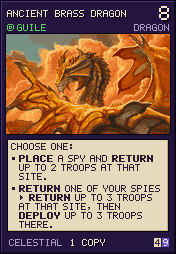
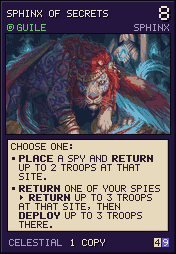
Stage NE-38: fewer dragons in Celestial — Ancient Brass Dragon -> Sphinx of Secrets, Adult Brass Dragon -> Archon of Boundaries, Silver Dragon -> Empyrean Iota (6+ cost cards get unique creatures), Young White Dragon -> Warrior Commander, Brass Dragon Wyrmling -> Curate; unused dragon arts removed, 

diff --git a/hs_unity/CARD_MAP.md b/hs_unity/CARD_MAP.md
@@ -139,7 +139,7 @@ S'theno, Neptulon TID, Neeru, Al'Akir NEW1 заменены свежими).
 | Warrior Veteran (49017) | Commander Beatrix (JAIL_397) | `JAIL_397_HighCommanderBeatrix_CustomSummon.prefab` | СДЕЛАНО (HsFx-79; владелец выбрал в HsBrowser 2026-10-27) |
 | Berserker (49607) | Korrak the Bloodrager (AV_143) | `AVFX_Korrak_CustomSummon.prefab` | берсерк |
 | Scout (49019) | Tyrande (EDR_464) | `EDRFX_Tyrande_CustomSummon.prefab` | СДЕЛАНО (HsFx-79; владелец выбрал в HsBrowser 2026-10-27) |
-| Silver Dragon (49020) | Azure Queen Sindragosa (TIME_852) | `TIMEFX_AzureQueenSindragosa_CustomSummon.prefab` | СДЕЛАНО (HsFx-77; владелец выбрал в HsBrowser 2026-10-27) |
+| ~~Silver Dragon~~ (—, существо убрано из игры NE-38; на 49020 теперь другое существо) | Azure Queen Sindragosa (TIME_852) | `TIMEFX_AzureQueenSindragosa_CustomSummon.prefab` | анимация свободна |
 | Shield Guardian (49218) | Omen (EDR_421) | `EDRFX_Omen_CustomSummon.prefab` | СДЕЛАНО (HsFx-77; владелец выбрал в HsBrowser 2026-10-27) |
 | Gold Dragon (49022) | Ursol (EDR_259) | `EDRFX_Ursol_CustomSummon.prefab` | СДЕЛАНО (HsFx-79; владелец выбрал в HsBrowser 2026-10-27) |
 
@@ -224,17 +224,17 @@ S'theno, Neptulon TID, Neeru, Al'Akir NEW1 заменены свежими).
 | Frost Giant (49620) | The Lich King (CORE_ICC_314) | `LichKing_CustomSummon.prefab` | СДЕЛАНО (HsFx-78; владелец выбрал в HsBrowser 2026-10-27) |
 | Pirate Captain (49714) | Eliza Goreblade (VAC_426) | `VAC_ElizaGoreBlade_CustomSummon.prefab` | СДЕЛАНО (HsFx-77; владелец выбрал в HsBrowser 2026-10-27) |
 | Blink Dog (49635) | Zer'Ontu (BE_790) | `BE_790_ZerOntu_CustomSummon.prefab` | СДЕЛАНО (HsFx-77; владелец выбрал в HsBrowser 2026-10-27) |
-| Young White Dragon (49014) | Bonelord Frostwhisper (RLK_591) | `RLKFX_BonelordFrostwhisper_CustomSummon.prefab` | СДЕЛАНО (HsFx-77; владелец выбрал в HsBrowser 2026-10-27) |
+| ~~Young White Dragon~~ (—, существо убрано из игры NE-38; на 49014 теперь другое существо) | Bonelord Frostwhisper (RLK_591) | `RLKFX_BonelordFrostwhisper_CustomSummon.prefab` | анимация свободна |
 
 ### shurima
 
 | Карта (id) | Легендарка HS (id) | Префаб эффекта | Почему |
 |---|---|---|---|
 | Roper (49711) | Iso'rath (CATA_481) | `CATAFX_Iso'rath_CustomSummon.prefab` | СДЕЛАНО (HsFx-76; владелец выбрал в HsBrowser 2026-10-27; готовый эффект другой карты перепечён с контуром этой) |
-| Ancient Brass Dragon (49016) | Mister Clocksworth (TIME_038t3) | `TIMEFX_MisterClocksWorth_CustomSummon.prefab` | СДЕЛАНО (HsFx-77; владелец выбрал в HsBrowser 2026-10-27) |
+| ~~Ancient Brass Dragon~~ (—, существо убрано из игры NE-38; на 49016 теперь другое существо) | Mister Clocksworth (TIME_038t3) | `TIMEFX_MisterClocksWorth_CustomSummon.prefab` | анимация свободна |
 | Purple Worm (49713) | Arisen Onyxia (CATA_155) | `CATA_155_ArisenOnyxia_Fab_CustomSummon_FX.prefab` | СДЕЛАНО (HsFx-79; владелец выбрал в HsBrowser 2026-10-27) |
 | Guardian Naga (50101) | Razidir (TLC_463) | `TLC463_Nazidir_CustomSummon.prefab` | СДЕЛАНО (HsFx-76; владелец выбрал в HsBrowser 2026-10-27; готовый эффект другой карты перепечён с контуром этой) |
-| Adult Brass Dragon (49021) | Anachronos (CORE_RLK_919) | `RLKFX_Anachronos_CustomSummon.prefab` | СДЕЛАНО (HsFx-77; владелец выбрал в HsBrowser 2026-10-27) |
+| ~~Adult Brass Dragon~~ (—, существо убрано из игры NE-38; на 49021 теперь другое существо) | Anachronos (CORE_RLK_919) | `RLKFX_Anachronos_CustomSummon.prefab` | анимация свободна |
 | Stone Giant (49606) | Toy Captain Tarim (TOY_813t) | `TOYFX_ToyCaptainTarim_CustomSummon.prefab` | СДЕЛАНО (HsFx-77; владелец выбрал в HsBrowser 2026-10-27) |
 | Gorgon (49717) | Gorgonzormu (VAC_955) | `VACFX_Gorgonzormu_CustomSummon.prefab` | горгона (по имени; при желании — заменить) |
 | Ankheg (49718) | Gorm the Worldeater (GDB_842) | `GDBFX_GormtheWorldeater_CustomSummon.prefab` | СДЕЛАНО (HsFx-77; владелец выбрал в HsBrowser 2026-10-27) |

diff --git a/Claude outputs/new_era_handoff.md b/Claude outputs/new_era_handoff.md
@@ -8,6 +8,7 @@
 - **Поле расы:** у карт New Era новое поле `"race"` в cards.json (`tools/new_era/races.tsv`), на карте справа от аспекта рисуется раса, а не полуколода; `"type"` остался полуколодой (им пользуются Knight of Eldraine «Name a region», тесты, god panel). `CardLibrary.card_race()`; High Priest of Myrkul («promote Undead») теперь смотрит на расу — нежить New Era тоже повышается.
 - Имена в вопросах реакций (Shield Guard / Oni / Ankheg) берутся из cards.json.
 - **NE-37 (владелец: оборотни, Basilisk, Rakshasa в Ravenloft «не по вайбу»):** заменены на нежить, исчадие и аберрацию из D&D Beyond: 49113 Strahd von Zarovich, 49115 Relentless Slasher (FIEND), 49116 Nightmare Haunt (ABERRATION), 49118 Zombie Plague Spreader, 49103 Graveyard Revenant, 49104 Vampire Nosferatu; жетон запаса 49124 Twig Blight → Swarm of Zombie Limbs (эффект прежний). Арты в `cards/shadow/`. Strahd Zombie не взят: тот же арт, что у Zombie (Calimshan). HS-анимации ушедших существ (Argus, Tavish, Frigidara) свободны; у новых анимаций пока нет.
+- **NE-38 (владелец: меньше драконов в Celestial; карты 6+ — уникальные, туда только уникальные существа):** 49016 Ancient Brass Dragon → Sphinx of Secrets, 49021 Adult Brass Dragon → Archon of Boundaries, 49020 Silver Dragon → Empyrean Iota, 49014 Young White Dragon → Warrior Commander, 49005 Brass Dragon Wyrmling → Curate. Драконами остались Gold Dragon (+ Ancient Gold Dragon), Dragon Turtle, Half-Dragon. Анимации ушедших драконов (Clocksworth, Anachronos, Sindragosa, Frostwhisper) свободны.
 
 ## NE-31…32 (2026-10-18): Ixtal → CHULT — 40/20, wip, задеплоено (сборка 1792269441, PROTOCOL 37)
 - **Владелец: Nidalee не делаем; динозавры можно, но только особенные — а у особенных (Aerosaur, Altisaur, Regisaur, Fastieth, Clawfoot Raptor) на D&D Beyond только вырезанные фигуры, поэтому владелец выбрал «без динозавров».**
